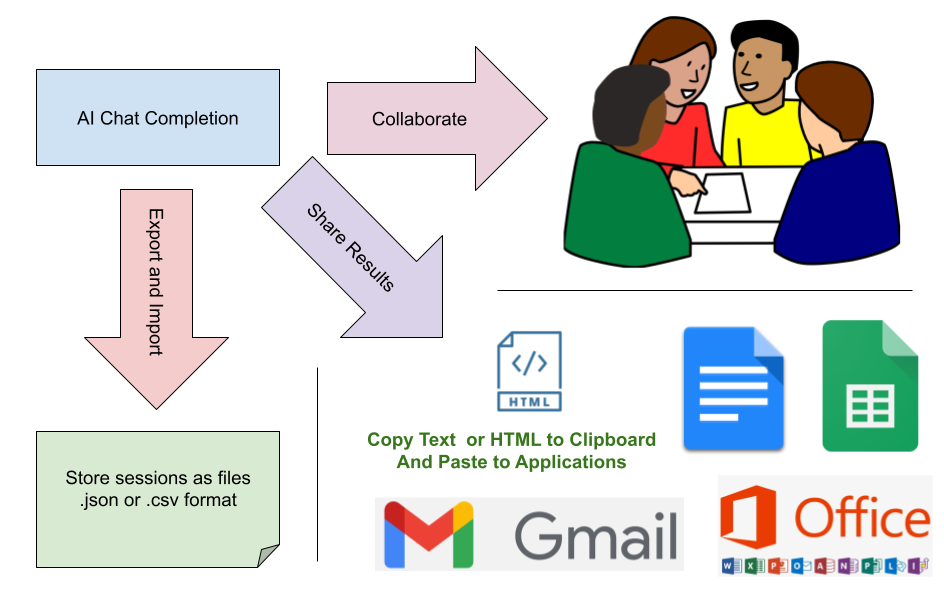
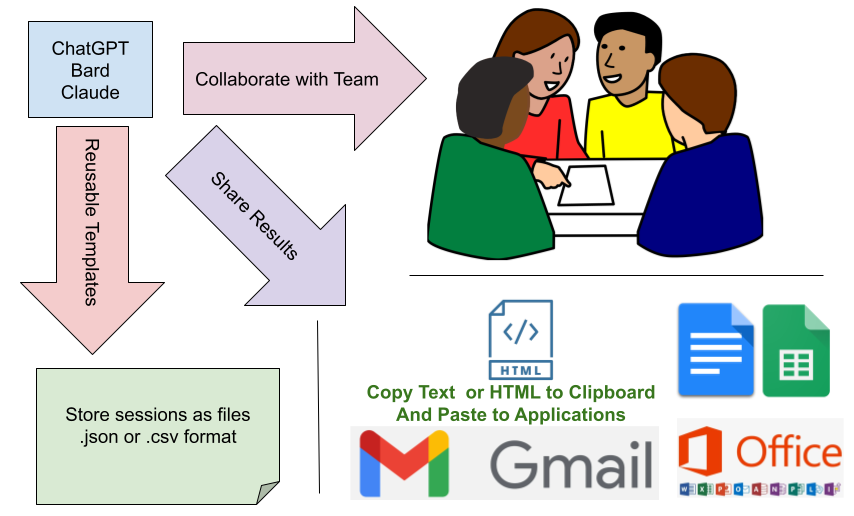
sharing prompts cleanup

diff --git a/public/content/sharingprompts/index.html b/public/content/sharingprompts/index.html
@@ -16,11 +16,13 @@
     <meta name='msapplication-square310x310logo' content='https://unacog.com/images/logo64.png'>
     <link rel='apple-touch-icon' href='https://unacog.com/images/logo64.png'>
 
-    <meta property="og:url" content="https://unacog.com/content/nodalanalysis/" />
+    <meta property="og:url" content="https://unacog.com/content/sharingprompts/" />
     <meta property="og:title" content="Sharing Prompts" />
     <meta property="og:type" content="website" />
     <meta property="og:image" content="https://unacog.com/content/sharingprompts/shareprompts.png" />
-    <meta property="og:description" content="Share prompts in realtime, to the clipboard or export a template to use later" />
+    <meta property="og:description"
+        content="Prompts with other in realtime or use email and other applications to share your results.
+        Create reusable templates in CSV or JSON format." />
 
     <!-- Firebase links -->
     <script src="https://www.gstatic.com/firebasejs/8.9.0/firebase-app.js"></script>
@@ -93,62 +95,60 @@
     <div class="container main_container">
         <div class="flex-lg-row flex_change_responsive">
             <div class="side_block">
-                <p class="header_recent_document">Sharing Prompts</p>
+                <h1 class="header_recent_document">Sharing Prompts</h1>
                 <a href="/content/sharingprompts/shareprompts.png" target="_blank">
                     <img src="/content/sharingprompts/shareprompts.png" alt="Share prompts" class="flyer_image">
                 </a>
                 <div class="coming-soon card" style="text-align:left;">
-                    Unacog offers a variety of options to share your work when prompting.
+                    Unacog offers a variety of options to share your work when prompting:
                     <ul>
                         <li>Prompt together in realtime</li>
-                        <li>Reuse work by duplicating sessions</li>
-                        <li>or export to a template file</li>
+                        <li>Duplicate a session</li>
+                        <li>Export and reuse templates</li>
                         <li>Use the clipboard for other applications</li>
-                        <li>Invite people using email</li>
-                    </ul> 
+                        <li>Invite people to your session using email</li>
+                    </ul>
                 </div>
             </div>
         </div>
         <div class="flex-lg-row flex_change_responsive">
             <div class="side_block">
-                <p class="header_recent_document">Import and Export Templates</p>
+                <h2 class="header_recent_document">Import and Export Templates</h2>
                 <div class="coming-soon card" style="text-align:left;">
                     Unacog sessions can be imported and exported in JSON or CSV format.
-                    These templates can be generated by outside applications or edited.
-                    This is very useful once you have a context history that is providing 
-                    useful responses and you want to keep it small (for expense) and 
-                    easy to reuse.
+                    These templates can be generated by external applications or edited.
+                    This is especially useful when you have a context history that is providing
+                    useful responses, and you want to keep it concise and easy to reuse while minimizing costs.
 
                 </div>
             </div>
         </div>
         <div class="flex-lg-row flex_change_responsive">
             <div class="side_block">
-                <p class="header_recent_document">Prompt with others in realtime</p>
+                <h2 class="header_recent_document">Prompt with others in realtime</h2>
                 <div class="coming-soon card" style="text-align:left;">
-                    Share the URL or send it via email to allow anyone to prompt 
-                    with you in your sessions.  Anonymous login is available as 
-                    no subscription is required to use sessions with an active account.
-                    The usage is billed to the session owner.
+                    You can prompt with others in real-time by sharing the session's URL or sending it via email.
+                    Anonymous login is available, as no subscription is required to use sessions with an active account.
+                    The usage charges are billed to the session owner.
                 </div>
             </div>
         </div>
         <div class="flex-lg-row flex_change_responsive">
             <div class="side_block">
-                <p class="header_recent_document">Share results as HTML or text</p>
+                <h2 class="header_recent_document">Share results as HTML or text</h2>
                 <div class="coming-soon card" style="text-align:left;">
-                    Copy text or HTML to the clipboard to easily share 
-                    work results with other applications.
+                    You can share the results as HTML or text by copying them to the clipboard, making it easy to share
+                    your work with other applications.
                 </div>
             </div>
         </div>
         <div class="flex-lg-row flex_change_responsive">
             <div class="side_block">
-                <p class="header_recent_document">Shared session features</p>
+                <h2 class="header_recent_document">Shared session features</h2>
                 <div class="coming-soon card" style="text-align:left;">
-                    Who prompted last?  Who is online, and even has this document open?
-                    Who ran which prompts? How about have the AI also recognize who 
-                    makes prompts.
+                    Shared session features include the ability to track who prompted last, see who is online and has
+                    the document open, and identify who ran which prompts. The AI can also recognize the individuals
+                    making prompts.
                 </div>
             </div>
         </div>

diff --git a/public/content/outputformatting/index.html b/public/content/outputformatting/index.html
@@ -16,7 +16,7 @@
     <meta name='msapplication-square310x310logo' content='https://unacog.com/images/logo64.png'>
     <link rel='apple-touch-icon' href='https://unacog.com/images/logo64.png'>
 
-    <meta property="og:url" content="https://unacog.com/content/nodalanalysis/" />
+    <meta property="og:url" content="https://unacog.com/content/outputformatting/" />
     <meta property="og:title" content="Output Formatting" />
     <meta property="og:type" content="website" />
     <meta property="og:image" content="https://unacog.com/content/outputformatting/outputformatting.png" />
